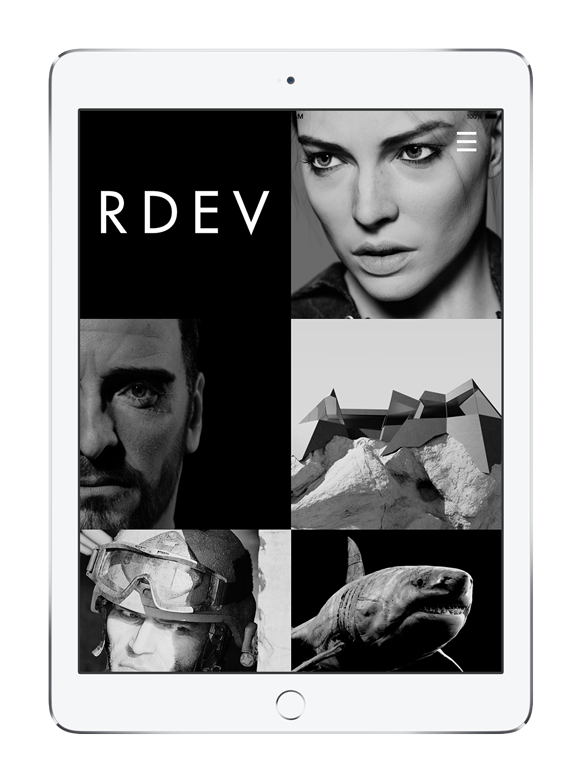
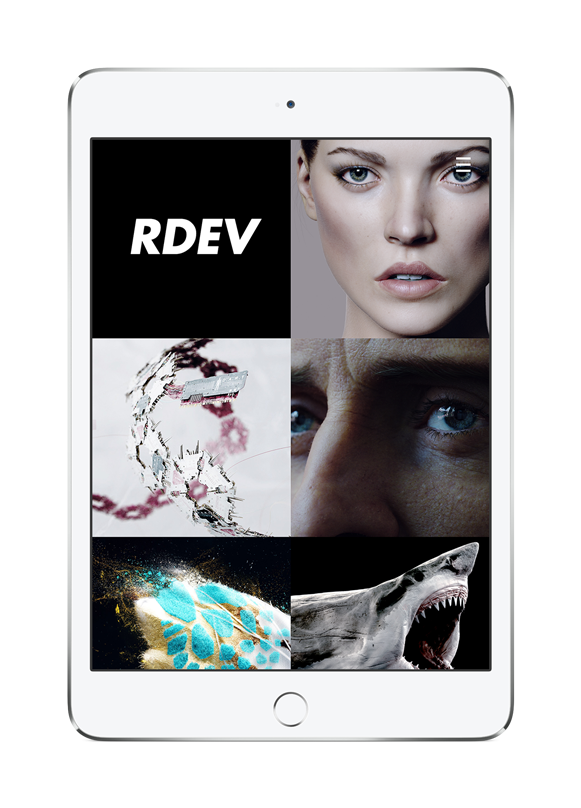
new rdev images + copy

diff --git a/src/index.html b/src/index.html
@@ -150,7 +150,7 @@
           <h1 class="WorkExcerpt-title" itemprop="name">RDEV</h1>
           <div class="WorkExcerpt-text">
             <p itemprop="about">
-              Portfolio for <span class="u-textTruncate">concept artist</span> and director <span class="u-textTruncate">Johan Rimer.</span>
+              Portfolio for <span class="u-textTruncate">3D artist </span> and animation director <span class="u-textTruncate">Johan Rimer.</span>
             </p>
           </div>
           <div class="WorkExcerpt-links">
